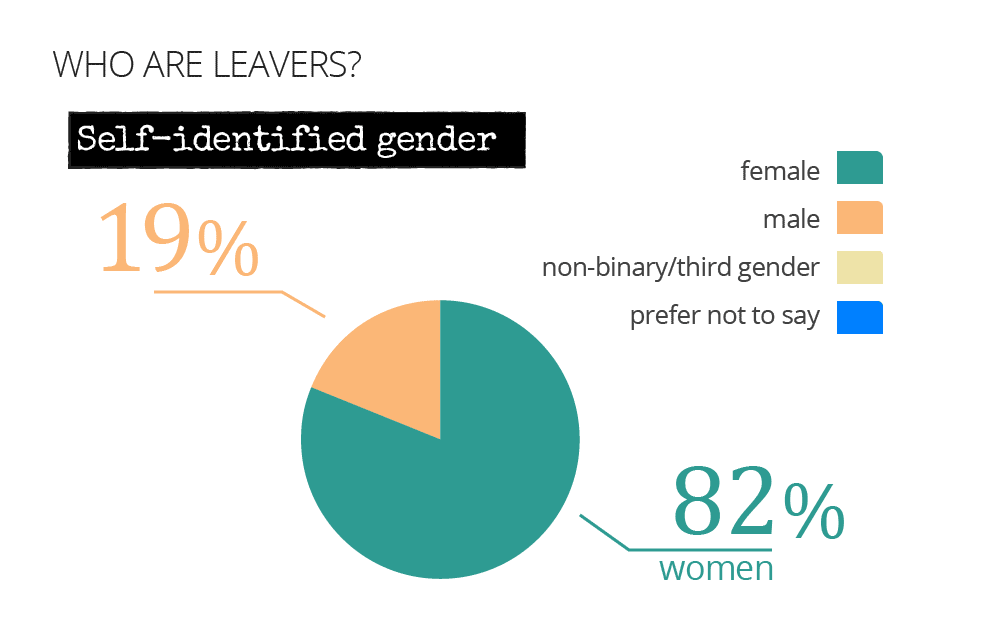
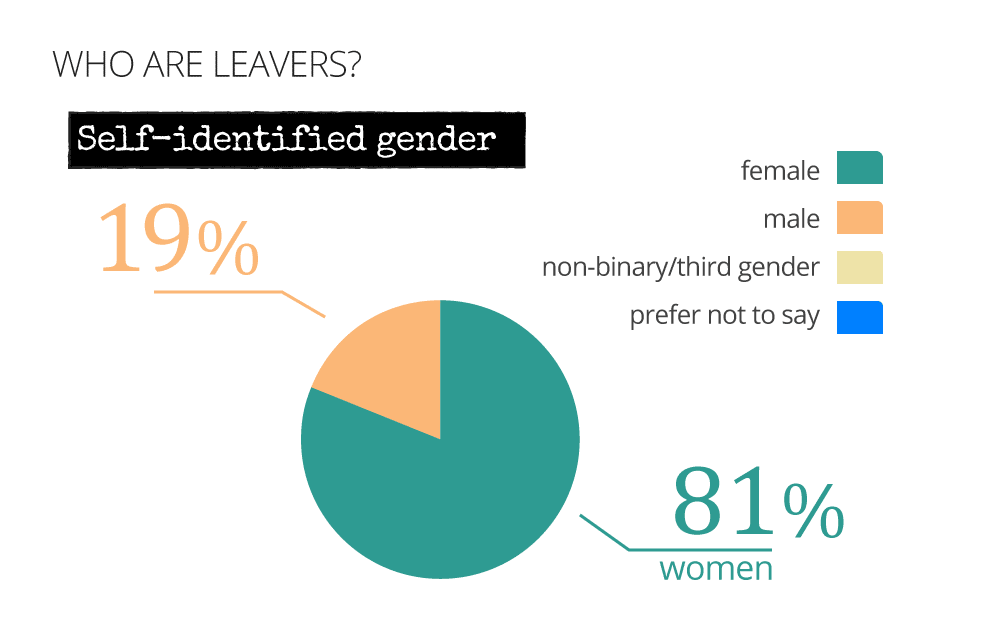
edits

diff --git a/leavers-project/index.html b/leavers-project/index.html
@@ -197,7 +197,7 @@
                     <span></span>
                   </div>
                   <div class="pair-frame-l">
-                    <p>81% of Leavers are women; it is unclear why they so heavily dominate the sample (see <a href="/index.html#methodology">Methodology</a> for a description of survey outreach).</p>
+                    <p>81% of Leavers are women (see <a href="/index.html#methodology">Methodology</a> for a description of survey outreach).</p>
                     <span class="ccimg"><img alt="" src="assets/img/gender-v1.png"></span>
                   </div>
                   <div class="pair-frame-l">
@@ -253,7 +253,8 @@
                 <div class="large-4 cell">
                   
                   <h3>Call to action</h3>
-                  <p>Sharing and contact icons here</p>
+                  <p>Sharing and contact icons here this is a static</p>
+
                 </div>
               </div>
             </div>
